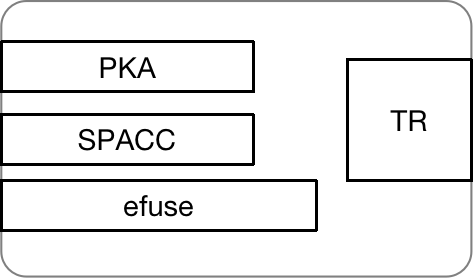
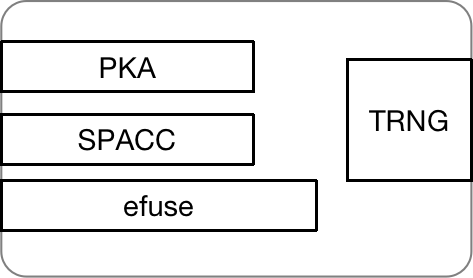
update POCI

Changed region(s): [[0.7696, 0.3741, 0.9471, 0.4892]]

diff --git a/docs/what-is-Utility/working.md b/docs/what-is-Utility/working.md
@@ -4,13 +4,37 @@ sidebar_position: 3
 
 # PoCI 的证明模型
 
-### 什么是POCI
-POCI (Proof of Computation Integrity) 算力完整性证明，是我们创新性的区块链核心共识机制。不同于传统的工作量证明POW(Proof Of Work), 该共识机制摒弃了繁杂的大量计算，转而使用声称的芯片拥有权完成对芯片算力的证明。我们利用芯片里的安全引擎结构，通过私密签名完成了这一算力的完整证明，具体细节如下展开。
+### 什么是PoCI
+PoCI (Proof of Computation Integrity) 算力完整性证明，是我们创新性的区块链核心共识机制。不同于传统的工作量证明POW(Proof Of Work), 该共识机制摒弃了繁杂的大量计算，转而使用声称的芯片拥有权完成对芯片算力的证明。我们利用芯片里的安全引擎结构，通过私密签名完成了这一算力的完整证明，具体细节如下展开。
 
 ### 安全引擎
 ![111](../../static/img/SE.png) \
-如图所示，这是芯片的安全引擎示意图，一共由4个核心部分组成：efuse，PKA(public key accelerator)，SPAC(security protocol accelerator)和TR(true random number generator)。其中efuse是一块记录秘密私钥的烧写区域，这里讲的烧写指的是利用芯片驱动TR随机数发生，对efuse的电位进行修改的操作，由于高电位将低位0变为高位1，类似于"烧毁记录"，因此一次性不可逆的特性。这一组随机产生的数字则被永久记录在efuse，即为密钥SK。\
+如图所示，这是芯片的安全引擎示意图，一共由4个核心部分组成：efuse，PKA(public key accelerator)，SPAC(security protocol accelerator)和TRNG(true random number generator)。其中efuse是一块记录秘密私钥的烧写区域，这里讲的烧写指的是利用芯片驱动TRNG随机数发生，对efuse的电位进行修改的操作，由于高电位将低位0变为高位1，类似于"烧毁记录"，因此一次性不可逆的特性。这一组随机产生的数字则被永久记录在efuse，即为密钥SK。\
 PKA和SPACC都为加解密算法加速器模块，分别可以做AES加解密和ECC对称加解密。这两个模块的具体实现如下阐述。
 
+### 加密解密过程
+值得注意的是efuse里的SK是芯片纳米级别的烧录，完全不可见。而且PKA模块的设计保证了SK的不泄漏，只允许通过其调度efuse区域用SK做加解密运算。\
+通过芯片驱动再一次生成一个随机数，调用PKA模块进行ECC计算，得到一组新的非对称密钥对\{priK, pubK\}；此时调度SPACC，同时读取efuse的SK和priK，并用SK作为AES密钥加密私钥priK：
+<center>
+P<sub>2</sub> = <i>AES</i>(SE, PriK)
+</center>
+其中P<sub>2</sub>是被SK加密的私钥PriK。可以想象这个世界上无人可以破解还原得到私钥PriK，除非再次利用这个芯片的SPACC读取efuse解密P<sub>2</sub>：
+<center>
+PriK = <i>AES</i>(SE, P<sub>2</sub>)
+</center>
+当然没有人有能力破解SK，因为这是一个128bit的随机数，难度可想而知。所以SPACC连同efuse形成了非常可靠的密钥存储机制。即便丢了PriK也没问题，只要有芯片再就可以得到PriK。事实上，为了安全，我们直接丢弃PriK，从此这个世界上无人再知晓。
+
 ### 签名+验签过程
-值得注意的是efuse里的SK是芯片纳米级别的烧录，完全不可见。而且PKA模块的设计保证了SK的不泄漏，只允许通过其调度efuse区域用SK做加解密运算。
+但是虽然丢弃了PriK，我们仍然可以用芯片读出PriK，这样似乎依然不安全。所以这里安全引擎的设计进行了改进，SPACC不是直接"吐出"PriK，而是将PriK送去签名，"吐出"签名结果：
+<center>
+Sign = <i>S</i>(SE, <i>AES</i>(SE, P<sub>2</sub>), M)
+</center>
+其中<i>S</i>是PKA模块的签名函数。可以看到，P<sub>2</sub>被SPACC模块解密后直接送进PKA签名，最后得到Sign。根据ECC非对称加密原理，用pubK可以验证签名，还原得到原本的消息哈希值M。这个机制杜绝了作恶的机会。一个作恶者由于没有芯片，无法真正用芯片得到真实的Sign， 只能伪造，因此根本通不过pubK的验证。\
+至此，我们完成了整个PoCI的共识过程。没有任何繁杂的PoW计算，只有芯片的烧录和签名过程就完成了对芯片拥有权的证明。权威的基金会通过严格测试，定义一颗芯片算力为<i>N</i> T，这样芯片持有者就可以打包他的信息上链，声称他有<i>N</i> T的计算能力：
+<center>
+\{P<sub>2</sub>, pubK\}
+</center>
+这些信息全部公开上链，接受全网的共识验证。只要任何M送进芯片，矿工都能得到对应的Sign以供全网验签，证明其算力合法性和PoCI。持有芯片的矿工同时提供地址Address和算力大小P<sub>2</sub>, 记录在Coffer数据区块中（详见Node章节）。
+
+### 总结
+PoCI充分利用了芯片巧妙的安全引擎设计，节省了PoW大量哈希计算的成本，高效安全地利用芯片烧录和签名证明了芯片算力，同时为芯片计算的真正应用打开新的大门，诸如高密度大规模计算和AI训练推理等。
